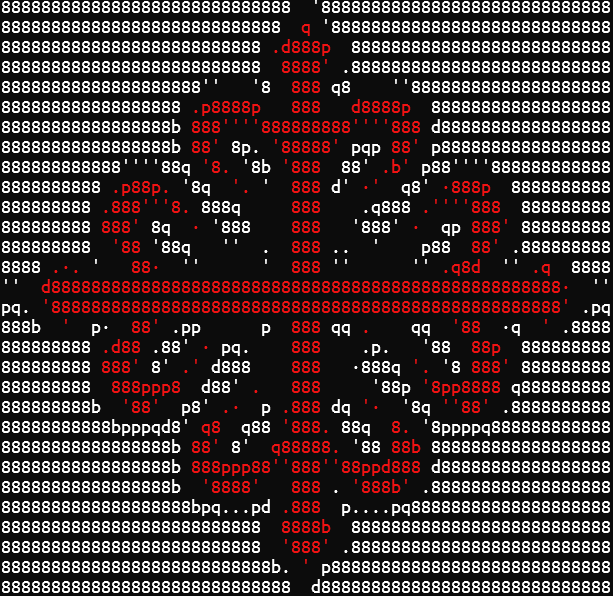
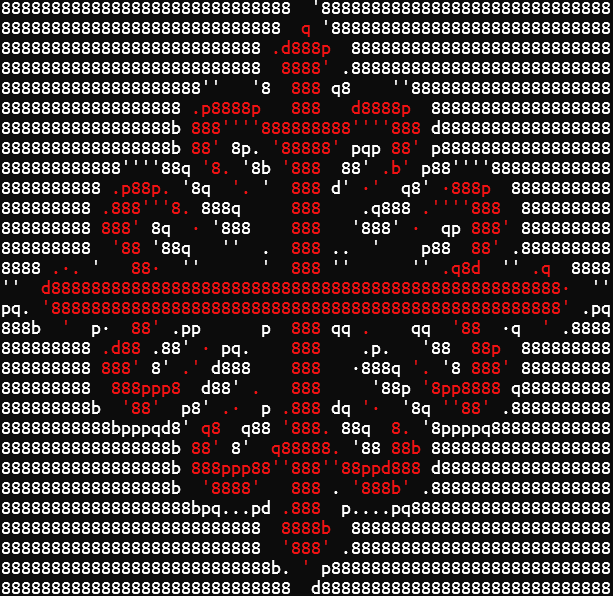
Small improvement on detecting borders with brightness

diff --git a/tests/misc.rs b/tests/misc.rs
@@ -200,34 +200,34 @@ Number of characters: 61x30
 Unfilled space: 6x0 pixels
 88888888888888888888888888888  888888888888888888888888888888
 888888888888888888888888888' .. '8888888888888888888888888888
-8888888888888888888888888b ·8888· d88888888888888888888888888
+8888888888888888888888888b .8888. d88888888888888888888888888
 8888888888888888888888888b '8888' d88888888888888888888888888
-88888888888888888888'    'b '88' p'    '888888888888888888888
-88888888888888888' ·88888.  '88'  .88888· '888888888888888888
-88888888888888888 d88b'''d888888888'''d88p 888888888888888888
-88888888888888888 '88  pp  '8888b  qp  88' 888888888888888888
-888888888888''''8b  'b '88p 8888 q88' q'  d8''''8888888888888
-888888888' ·888p. 8b.  ·  8 8888 8  ·' .d8 .q888· '8888888888
-888888888 d88b'''b  88pq    8888    pp88' d'''d88b d888888888
-88888888b 888  p. '  8888   8888   8888  ' .p  888 d888888888
-88888888b 'd8· '8b.   '  .. 8888 .   '   .d88 ·8b' d888888888
-888' ··  '   8b.  ''      ' 8888 ''     ''  .d8'  '  ·· '8888
-'' .8888888888888888888888888888888888888888888888888888.  '8
-p.  '88888888888888888888888888888888888888888888888888b  .q8
-888p '' .p  .8'  .p·     qp 8888 pp     ·q.  '8.  q.  ' q8888
-88888888b ·88' q88    p.    8888   ..q    88p '88· d888888888
-88888888b 888  8' ·  888b   8888   d888  ·  8  888 d888888888
-88888888b '888ppd' q888'    8888    '888p 'bpp888' d888888888
-888888888p ''8b'  d8' ·  .d 8888 b.  ·  8b  ''8'' q8888888888
-88888888888ppppq88 .d' pd8' 8888 '8bq 'b. 88pppqp888888888888
+88888888888888888888'    'q '88' p'    ''88888888888888888888
+88888888888888888' .88888.  '88'  .88888. '888888888888888888
+88888888888888888 '888'''8888888888'''d88q 888888888888888888
+88888888888888888 '88  pq  '88888  pp  88' 888888888888888888
+888888888888''''8b  'b '88. 8888 .88' q'  d8'''''888888888888
+888888888' .888p. 8b.  ·  8 b88d 8  ·' .d8 .q888. '8888888888
+888888888 d888'''b  88pq    b88d    pq88' d'''d88b 8888888888
+88888888b 888  p. '  8888   b88d   8888  ' .p  888 d888888888
+88888888q 'd8. '88.   '  .. b88d .   '   .888 .88' p888888888
+888' ·.  '   8b.  ''      ' b88d ''     ''  .d8'  '  .· '8888
+'' .8888888888888888888888888888888888888888888888888888.  ''
+p.  '888888888888888888888888888888888888888888888888888  .q8
+888q '  .p  .8'  .p·     qp b88d pp     ·q.  '8.  q.  ' p8888
+888888888 .88' p88    p.    b88d   ..q    88p '88. 8888888888
+88888888b 888  8' ·  888b   b88d   d888  ·  8  888 d888888888
+88888888q '888ppd' .888'    b88d    '888. 'bpp888' p888888888
+888888888q ''88'  d8' .  .d 8888 b.  .  8b  ''8'' p8888888888
+88888888888ppppq88 .d' p88' 8888 '88q 'b. 88pppqq888888888888
 88888888888888888 .88  8' .888888. '8  88. 888888888888888888
 88888888888888888 '888ppp8b'8888''8ppp888' 888888888888888888
-88888888888888888p ''8888'  '88'   d888'' q888888888888888888
-8888888888888888888pqq...q8 d88b 8p...ppq88888888888888888888
-88888888888888888888888888 ·8888· d88888888888888888888888888
+88888888888888888q ''8888'  '88'   d888'' p888888888888888888
+8888888888888888888pq....p8 p88q 8q....pq88888888888888888888
+88888888888888888888888888 ·8888· 888888888888888888888888888
 8888888888888888888888888b ''88b' d88888888888888888888888888
 888888888888888888888888888p    q8888888888888888888888888888
-8888888888888888888888888888b  d88888888888888888888888888888
+88888888888888888888888888888  888888888888888888888888888888
 [0m"#
             .trim()
     );

diff --git a/src/proc_pixel.rs b/src/proc_pixel.rs
@@ -15,13 +15,6 @@ pub fn calculate_brightness(pixel: &Rgba<u8>) -> f32 {
     ((0.299 * r + 0.587 * g + 0.114 * b) / 255.0).sqrt()
 }
 
-// This function 
-pub fn calculate_brightness_alpha(pixel: &Rgba<u8>) -> f32 {
-    let brightness = calculate_brightness(pixel);
-    let alpha = pixel[3] as f32 / 255.0;
-    brightness * alpha
-}
-
 pub fn calculate_linear_brightness(pixel: &Rgba<u8>) -> f32 {
     let r = pixel[0] as f32;
     let g = pixel[1] as f32;
@@ -73,7 +66,10 @@ pub fn calc_hue(pixel: &Rgba<u8>) -> u16 {
 
 // Calculate the difference between the brightness of two pixels
 pub fn brightness_difference(pixel1: &Rgba<u8>, pixel2: &Rgba<u8>) -> f32 {
-    (calculate_brightness_alpha(pixel1) - calculate_brightness_alpha(pixel2)).abs()
+    let alpha1 = pixel1[3] as f32 / 255.0;
+    let alpha2 = pixel2[3] as f32 / 255.0;
+    (calculate_brightness(pixel1) * alpha1 - calculate_brightness(pixel2) * alpha2)
+        .abs()
 }
 
 // Calculate the difference between the hue of two pixels

diff --git a/docs/how-it-works.md b/docs/how-it-works.md
@@ -67,11 +67,14 @@ Increases the color saturation of each pixel if it is brighter than the midpoint
 
 6. **Draw borders**:
 
-You can detect borders by hue, brightness of both.
+You can detect borders by hue, brightness, alpha (transparencies) or a mix of them.
 
 A border is detected by comparing a pixel with its right and bottom neighbor. If its difference is higher than a threshold, it records that position.
 
 When all the borders have been identified, there is a second pass on the image that draws them. It draws a square with a specific thickness on each position.
+
+When dealing with transparent pixels we have to take some aspects into consideration:
+- 
 
 7. **Apply negative effect**:
 
@@ -163,3 +166,15 @@ It is the same as before but you subtract 0.5 (or other value of your liking). T
 If the brightness range is from 0 to 1, when you multiply you can only increase the score, so a brighter character will have a higher value than the darker ones. Even if it was a completely dark block it will have a score of 0 with every character.
 
 It is only when you have negative values that you can punish mismatches.
+
+## Printing color
+
+When printing color we have to take special measures, we can't just take the average of the block.
+
+In older versions this was the case, and in photos where you printed color and had borders you usually had color leaking on some characters.
+
+This happens because there are pixels that are not shown in the character from one side of the border whose color is registered.
+
+We can fix this by only taking into consideration the color where the character has a bright pixel and the block has a bright pixel.
+
+This way only the color of the pixels that took the decision is printed.

diff --git a/docs/usage.md b/docs/usage.md
@@ -53,7 +53,7 @@ Usage: l2a.exe [OPTIONS] <PATH>
 ### Borders and Colors
 
 -   `-c, --print-color`: Print the image with colors
--   `-b, --borders <BORDER_CRITERIA>`: Draws borders on the image according to the specified policy. You can specify multiple policies [possible values: color, brightness, alpha, all]
+-   `-b, --borders <BORDER_CRITERIA>`: Draws borders on the image according to the specified policy. You can specify the argument multiple times or as a comma separated list. [possible values: color, brightness, alpha, all]
 -   `-k, --thickness <BORDER_THICKNESS>`: Border thickness (default: width of the character)
 -   `--color-diff <COLOR_DIFF>`: Threshold for the color difference (from 0 to 360, modulus 360) [default: 30]
 -   `--brightness-diff <BRIGHTNESS_DIFF>`: Threshold for the brightness difference (from 0 to 1) [default: 0.1]

diff --git a/docs/tutorial.md b/docs/tutorial.md
@@ -123,10 +123,10 @@ l2a .\images\tentacles.png -b all -c
 You can combine multiple options for more complex results:
 
 ```bash
-l2a .\images\Cross_Calatrava.png -cvb all -X4
+l2a .\images\Cross_Calatrava.png -cvb all -X1
 ```
 
-![Cross of Calatrava combined](../images/ascii/cross_cvb_all_X4.png)
+![Cross of Calatrava combined](../images/ascii/cross_cvb_all_X1.png)
 
 ## Images with a lot of details.
 
